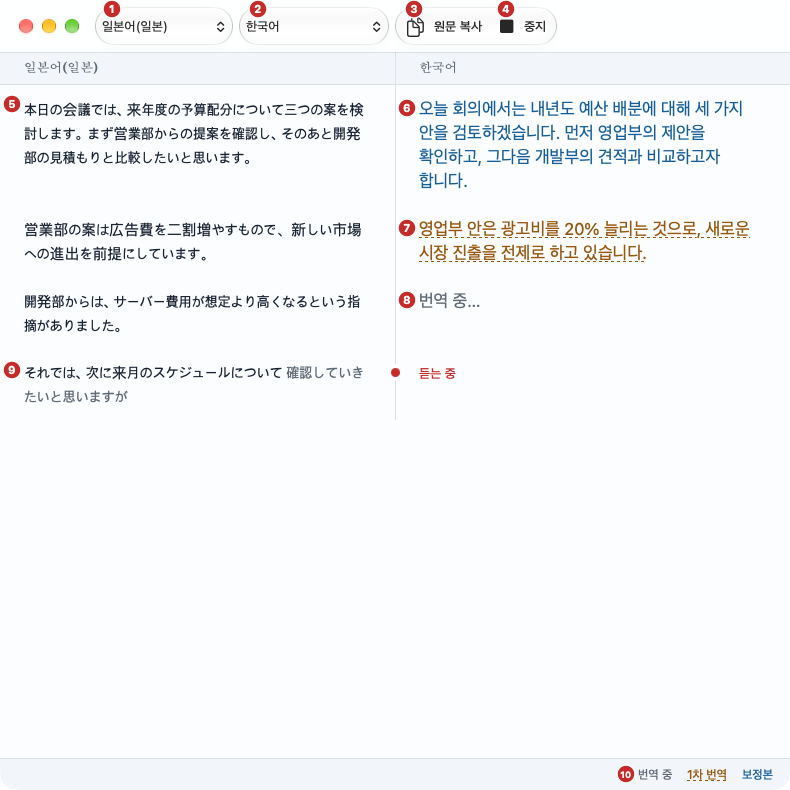
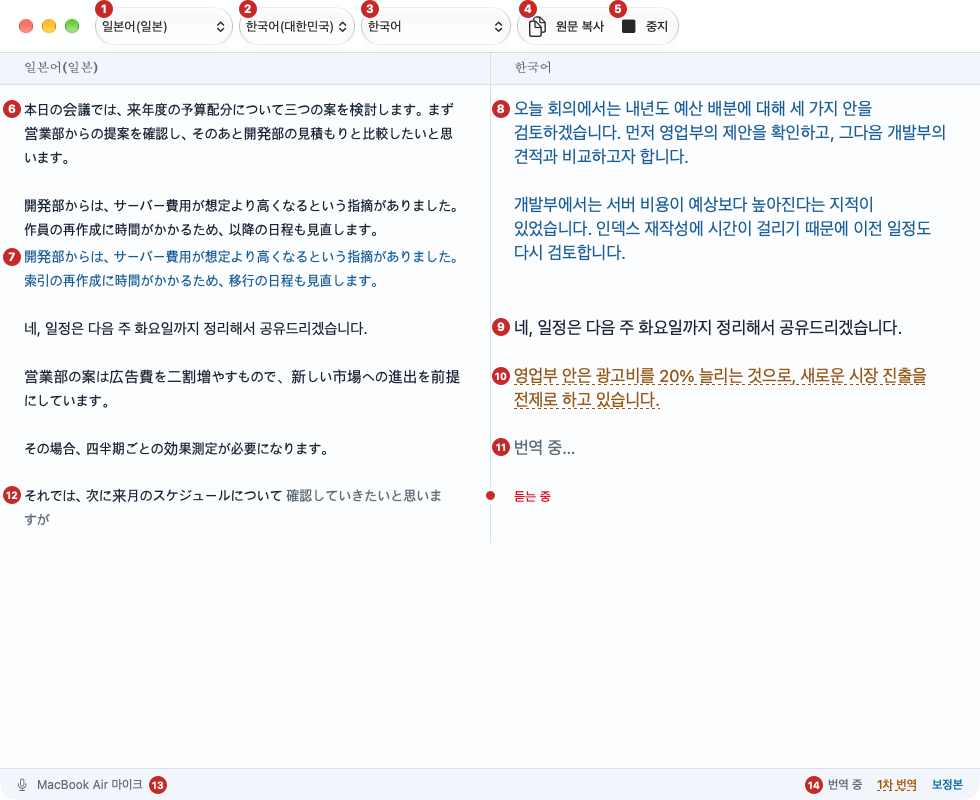
docs(readme): 스크린숏을 현재 화면으로 교체하고 번호 설명 갱신
함께 들을 언어, 보정된 전사, 입력 장치 표시가 생기면서 화면이
예전 그림과 달라졌다.

- 안내 그림, 다크 모드, 시작 전 화면 세 장을 새로 촬영
- 안내 그림의 번호를 10개에서 14개로 다시 매기고 표에
  함께 들을 언어, 보정된 전사, 번역하지 않는 문단, 입력 장치 추가
- 예전 화면이라는 안내와 그림에 없는 요소 목록 삭제

Refs: #20
Claude-Session: https://claude.ai/code/session_01UoJvPMr4qgzmggEEc2hSXq

diff --git a/README.md b/README.md
@@ -5,7 +5,7 @@
 
 ![일본어 회의를 한국어로 번역하고 있는 화면](docs/images/main-guide.png)
 
-*왼쪽에 원문이, 오른쪽에 번역이 문단마다 같은 높이로 쌓입니다. 그림 속 번호는 아래 [화면 읽는 법](#화면-읽는-법)에서 설명합니다. (예시 화면. 함께 들을 언어, 입력 장치 표시, 보정된 전사가 생기기 전에 찍은 것입니다)*
+*왼쪽에 원문이, 오른쪽에 번역이 문단마다 같은 높이로 쌓입니다. 그림 속 번호는 아래 [화면 읽는 법](#화면-읽는-법)에서 설명합니다. (예시 화면)*
 
 ## 필요한 환경
 
@@ -43,21 +43,19 @@
 | 번호 | 이름 | 설명 |
 |---|---|---|
 | 1 | 원문 언어 | 말하는 사람의 언어를 고릅니다 |
-| 2 | 번역 언어 | 번역해서 볼 언어를 고릅니다 |
-| 3 | 원문 복사 | 지금까지 확정된 원문 전체를 클립보드에 복사합니다 |
-| 4 | 시작 / 중지 | 듣기를 시작하거나 멈춥니다. 듣는 동안에는 "중지"로 바뀝니다 |
-| 5 | 원문 열 | 받아 적은 원문입니다. 문단마다 한 덩어리로 쌓입니다 |
-| 6 | 보정본 (파란색) | 다듬어진 최종 번역입니다 |
-| 7 | 1차 번역 (호박색 + 점선 밑줄) | 기계 번역 결과입니다. 곧 보정본으로 바뀝니다 |
-| 8 | 번역 중 (회색) | 번역을 기다리는 문단입니다 |
-| 9 | 진행 중 문단 | 지금 받아 적는 중인 말입니다. 옅은 글자는 아직 확정되지 않아 바뀔 수 있습니다. 오른쪽의 빨간 점과 "듣는 중"이 듣고 있다는 표시입니다 |
-| 10 | 범례 | 번역 단계별 색을 보여 줍니다 |
-
-그림에는 없지만 지금 화면에는 다음도 있습니다.
-
-- 툴바의 원문 언어와 번역 언어 사이에 **함께 들을 언어**가 있습니다.
-- 하단 상태 줄 왼쪽에 마이크 아이콘과 함께 **입력 장치** 이름이 나옵니다. 듣는 중에는 실제로 듣고 있는 장치, 멈춰 있을 때는 다음에 시작하면 쓸 장치입니다.
-- 전사 보정을 켜면 원문 열의 문단 아래에 **보정된 전사**가 파란색으로 붙습니다.
+| 2 | 함께 들을 언어 | 원문 언어와 동시에 받아 적을 언어입니다. 그림은 한국어를 고른 상태입니다([함께 들을 언어](#함께-들을-언어) 참고) |
+| 3 | 번역 언어 | 번역해서 볼 언어를 고릅니다 |
+| 4 | 원문 복사 | 지금까지 확정된 원문 전체를 클립보드에 복사합니다 |
+| 5 | 시작 / 중지 | 듣기를 시작하거나 멈춥니다. 듣는 동안에는 "중지"로 바뀝니다 |
+| 6 | 원문 열 | 받아 적은 원문입니다. 문단마다 한 덩어리로 쌓입니다 |
+| 7 | 보정된 전사 (파란색) | [전사 보정](#전사-보정)을 켰을 때 음성 인식 오류를 고친 전사입니다. 원문과 다를 때만 원문 아래에 나오고, 번역은 이것을 원문으로 씁니다 |
+| 8 | 보정본 (파란색) | 다듬어진 최종 번역입니다 |
+| 9 | 번역하지 않는 문단 | 번역 언어와 같은 언어로 말한 문단입니다. 번역 없이 그대로 보입니다 |
+| 10 | 1차 번역 (호박색 + 점선 밑줄) | 기계 번역 결과입니다. 곧 보정본으로 바뀝니다 |
+| 11 | 번역 중 (회색) | 번역을 기다리는 문단입니다 |
+| 12 | 진행 중 문단 | 지금 받아 적는 중인 말입니다. 옅은 글자는 아직 확정되지 않아 바뀔 수 있습니다. 오른쪽의 빨간 점과 "듣는 중"이 듣고 있다는 표시입니다 |
+| 13 | 입력 장치 | 듣는 중에는 실제로 듣고 있는 장치, 멈춰 있을 때는 다음에 시작하면 쓸 장치입니다. [설정](#설정)에서 바꿉니다 |
+| 14 | 범례 | 번역 단계별 색을 보여 줍니다 |
 
 다크 모드에서는 이렇게 보입니다. 처음에는 시스템 설정을 따르고, [설정](#설정)의 테마에서 라이트나 다크로 고정할 수 있습니다.
 
